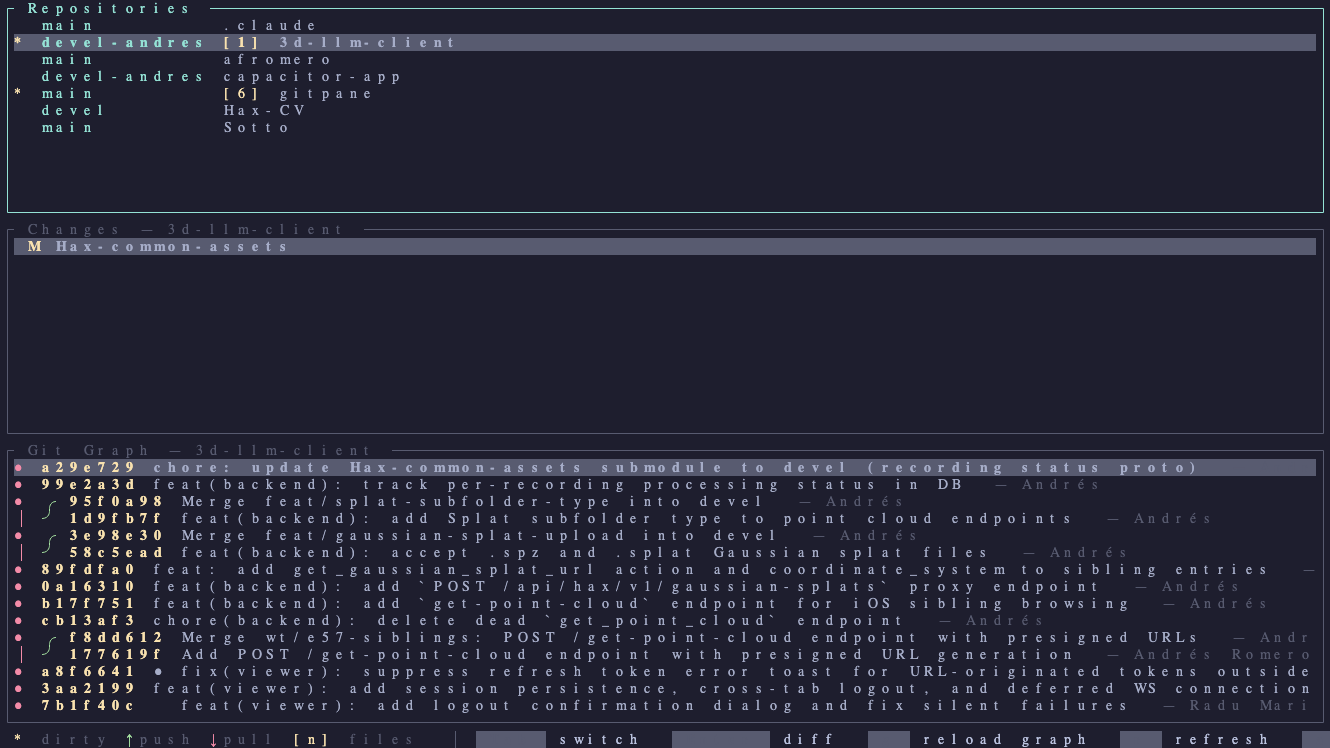
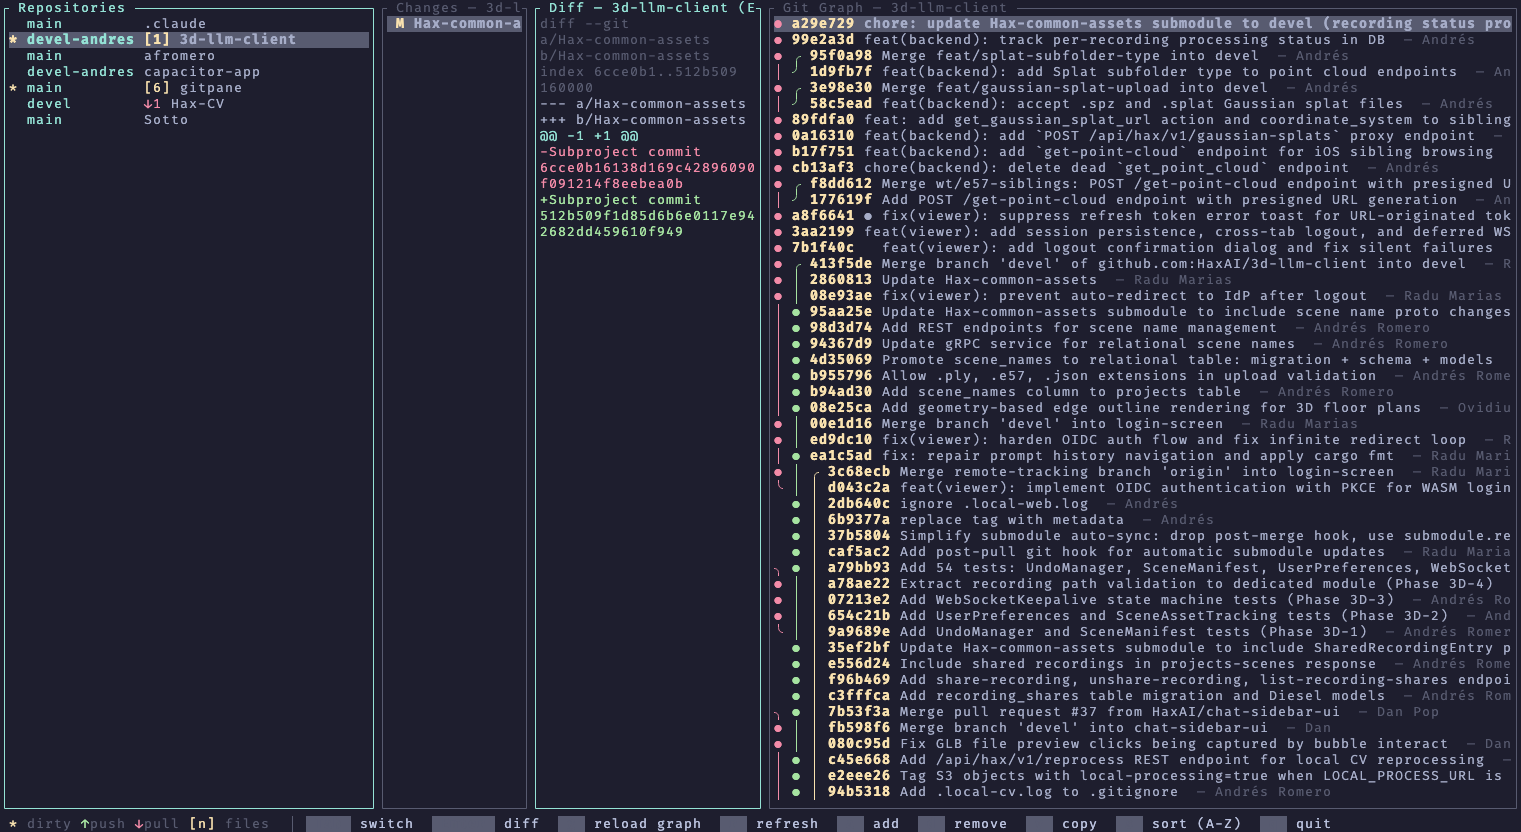
fix: Esc now closes diff/detail before navigating panels; re-record demo
- Fix Esc keybinding: when viewing a diff or commit detail, Esc closes
  it first instead of navigating to the previous panel. Layered dismissal
  now works correctly: diff → files → panel navigation
- Re-record demo GIF at 2x playback speed with Fira Code font
- Real screenshots from VHS frame extraction (main overview + diff view)
- Faster, more professional demo GIF

Changed region(s): [[0.0, 0.0, 1.0, 1.0]]

diff --git a/src/app.rs b/src/app.rs
@@ -578,11 +578,17 @@ impl App {
                 self.action_tx.send(Action::Quit)?;
             }
             KeyCode::Esc => {
-                // Move focus left, or quit from repos
-                match self.focus {
-                    FocusPanel::Graph => self.focus = FocusPanel::Changes,
-                    FocusPanel::Changes => self.focus = FocusPanel::Repos,
-                    FocusPanel::Repos => self.action_tx.send(Action::Quit)?,
+                // Close active detail/diff first, then navigate panels
+                if self.focus == FocusPanel::Changes && self.file_list.viewing_diff() {
+                    self.file_list.handle_key_event(key)?;
+                } else if self.focus == FocusPanel::Graph && self.git_graph.has_detail() {
+                    self.git_graph.handle_key_event(key)?;
+                } else {
+                    match self.focus {
+                        FocusPanel::Graph => self.focus = FocusPanel::Changes,
+                        FocusPanel::Changes => self.focus = FocusPanel::Repos,
+                        FocusPanel::Repos => self.action_tx.send(Action::Quit)?,
+                    }
                 }
             }
             KeyCode::Tab => {

diff --git a/README.md b/README.md
@@ -75,14 +75,9 @@ Repos on the left show branch, dirty state (`*`), ahead/behind arrows (`↑↓`)
 <img src="assets/screenshot-main.png" alt="Three-panel overview" width="800">
 
 ### Split diff view
-Click a changed file to see its diff side-by-side. File list stays navigable on the left.
+Click a changed file (or press Enter) to see its diff side-by-side. File list stays navigable on the left. Same drill-down works in the graph panel for commit diffs.
 
 <img src="assets/screenshot-diff.png" alt="Split diff view" width="800">
-
-### Commit detail drill-down
-Click a commit in the graph to see its files, then click a file to see the commit diff.
-
-<img src="assets/screenshot-commit.png" alt="Commit detail view" width="800">
 
 ## Features
 
